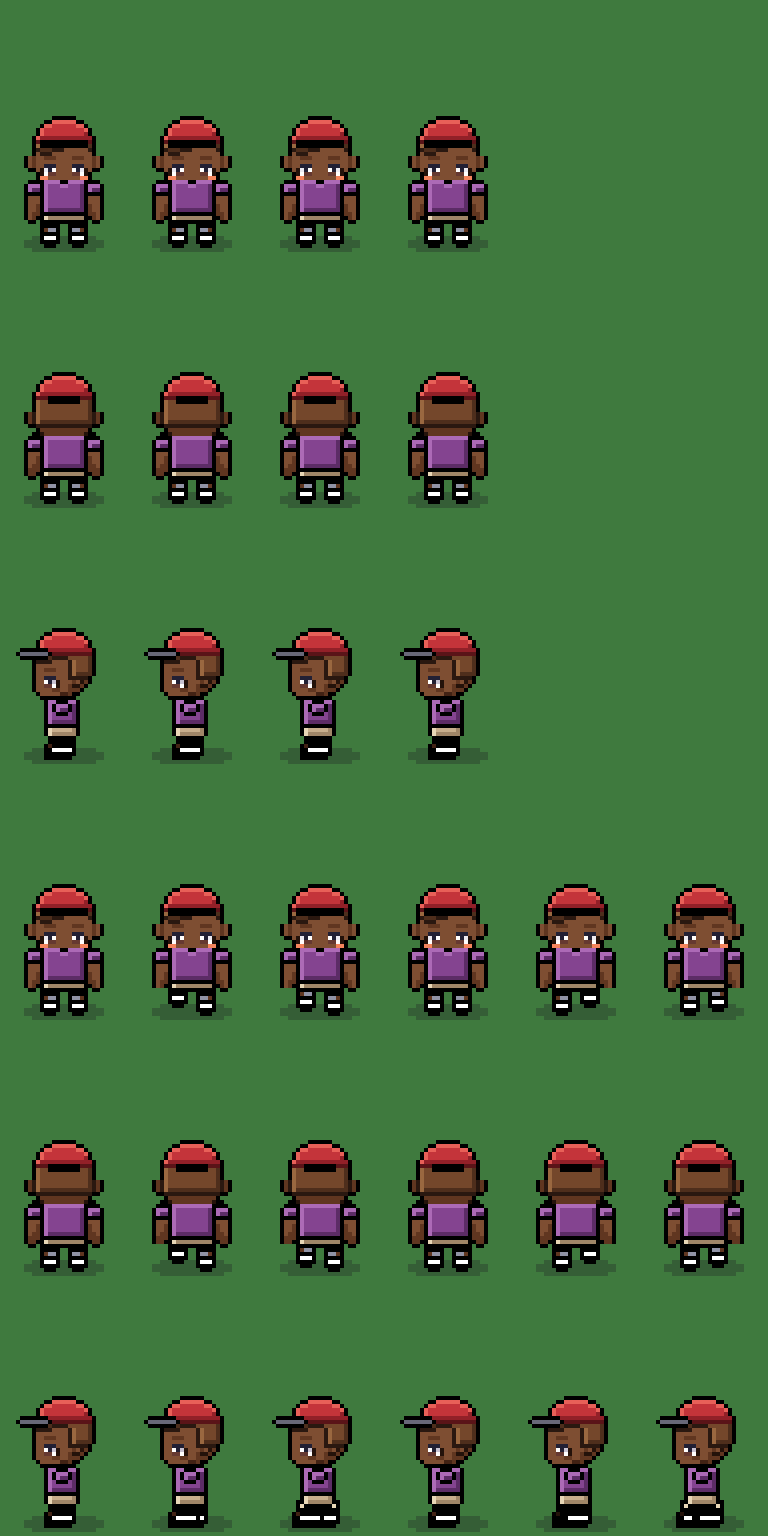
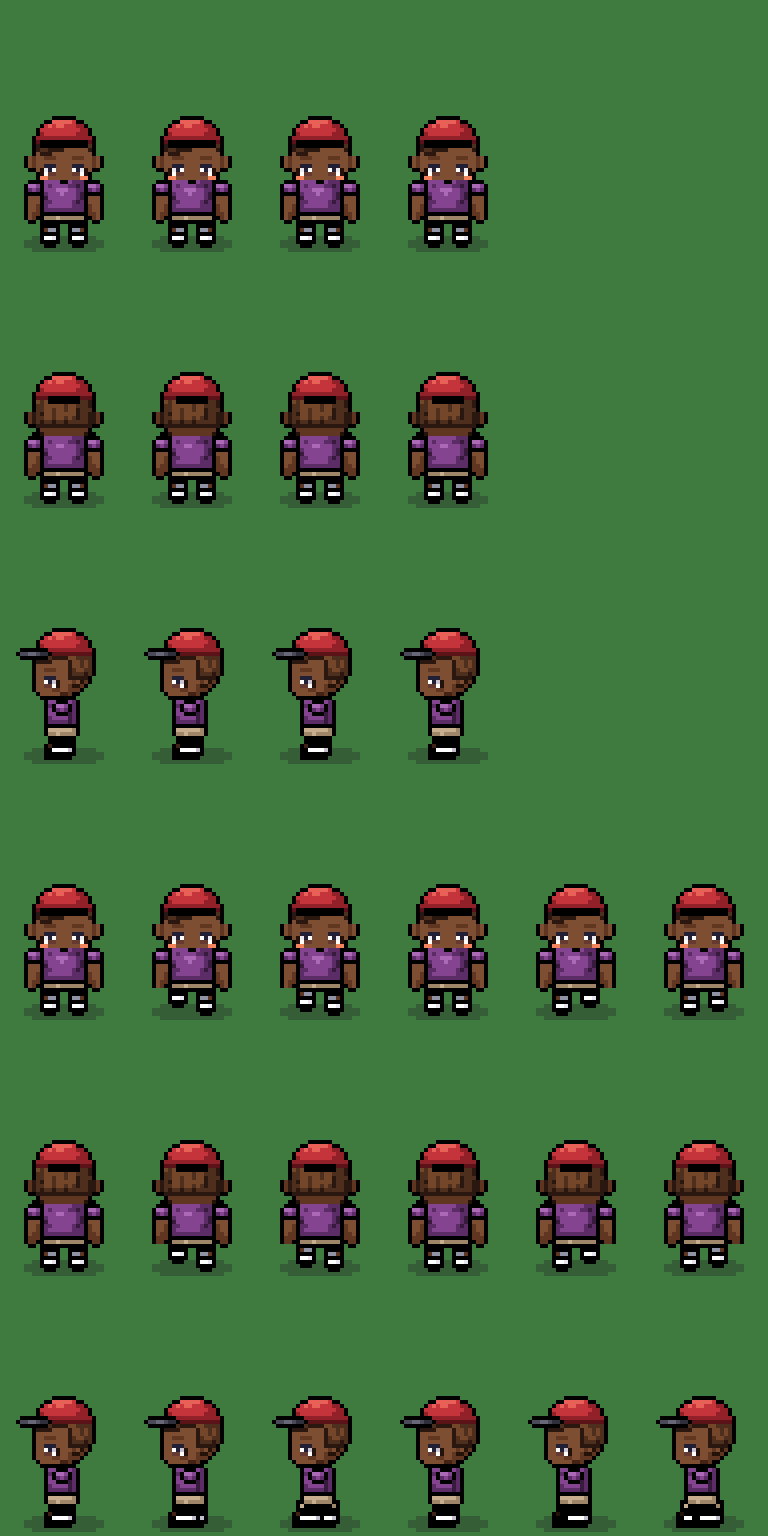
Characters: volumetric shading and detail pass
- round-volume shading for all character regions (light top/center, darker
  sides/bottom) instead of flat fill + 1px highlight
- hair: strand lines (sweeping front, vertical back) and a sheen highlight
- clothing: head cast shadow on chest/back, armpit and elbow creases,
  knee folds, crotch seam, waistband
- Frame.shift/detail helpers for per-pixel shade passes

Claude-Session: https://claude.ai/code/session_01AuTfW4RY5hqwpF1mFtvoZZ

diff --git a/scripts/gen-placeholders.ts b/scripts/gen-placeholders.ts
@@ -48,13 +48,32 @@ class Frame {
   /** A shaded region with the black outline used by all character art. */
   reg(ch: Ch | Ramp4, inside?: (x: number, y: number) => boolean): Region {
     const r = new Region(FRAME_W, FRAME_H, typeof ch === "string" ? KEY_RAMPS[ch] : ch);
-    this.ops.push(() => r.paint(this.c, 0, 0, { outlineColor: BLACK, inside }));
+    this.ops.push(() => r.paint(this.c, 0, 0, { outlineColor: BLACK, inside, volume: true }));
     return r;
   }
   /** Region for hair/headwear: black outline only on the head silhouette, soft edge where it meets skin. */
   headReg(ch: Ch): Region {
     const m = headMask(this.p);
     return this.reg(ch, (x, y) => x >= 0 && y >= 0 && x < FRAME_W && y < FRAME_H && m[y * FRAME_W + x] === 1);
+  }
+  /** Shift a painted key-ramp pixel one shade darker (d=-1) or lighter (d=+1). Outline/fixed colors untouched. */
+  shift(x: number, y: number, d: -1 | 1) {
+    this.ops.push(() => {
+      const h = hexAt(this.c, x, y);
+      if (!h) return;
+      for (const ramp of Object.values(KEY_RAMPS) as readonly string[][]) {
+        const i = ramp.indexOf(h);
+        if (i >= 0) {
+          const j = Math.max(0, Math.min(3, i + d));
+          if (j !== i) this.c.set(x, y, ramp[j]!);
+          return;
+        }
+      }
+    });
+  }
+  /** Apply `shift` to every pixel of a region matching a predicate (call AFTER the region's shapes are set). */
+  detail(r: Region, d: -1 | 1, when: (x: number, y: number) => boolean) {
+    for (let y = 0; y < FRAME_H; y++) for (let x = 0; x < FRAME_W; x++) if (r.has(x, y) && when(x, y)) this.shift(x, y, d);
   }
   dot(x: number, y: number, hex: string, alpha = 255) {
     this.ops.push(() => this.c.set(x, y, hex, alpha));
@@ -186,6 +205,7 @@ const drawers: Record<string, Drawer> = {
     if (f.dir === "down") r.round(h.x, h.y + 8, h.w, 16, 2);
     else if (f.dir === "up") r.round(h.x, h.y + 6, h.w, 18, 3);
     else r.round(h.x + 8, h.y + 6, 9, 17, 2);
+    f.detail(r, -1, (x, y) => r.has(x - 1, y) && r.has(x + 1, y) && (x - h.x) % 3 === 1 && y % 4 !== 0);
   },
   "hair/hair_bun_01.png": (f) => {
     const h = f.p.head;
@@ -297,6 +317,24 @@ const drawers: Record<string, Drawer> = {
   },
 };
 
+/** Hair strands + highlight sheen, so hair reads as hair and not a flat cap. */
+function hairDetail(f: Frame, r: Region) {
+  const h = f.p.head;
+  const inner = (x: number, y: number) => r.has(x - 1, y) && r.has(x + 1, y) && r.has(x, y - 1) && r.has(x, y + 1);
+  if (f.dir === "up") {
+    // vertical strands falling down the back of the head
+    f.detail(r, -1, (x, y) => inner(x, y) && y >= h.y + 4 && (x - h.x) % 3 === 1 && (y + x) % 5 !== 0);
+    f.detail(r, 1, (x, y) => inner(x, y) && y >= h.y + 2 && y <= h.y + 3 && x >= h.x + 6 && x <= h.x + 11);
+  } else if (f.dir === "down") {
+    // strands sweeping from the crown toward the fringe
+    f.detail(r, -1, (x, y) => inner(x, y) && y >= h.y + 3 && (x + Math.floor((y - h.y) / 2)) % 4 === 0);
+    f.detail(r, 1, (x, y) => inner(x, y) && y === h.y + 2 && x >= h.x + 5 && x <= h.x + 10);
+  } else {
+    f.detail(r, -1, (x, y) => inner(x, y) && y >= h.y + 3 && (x - Math.floor((y - h.y) / 2)) % 4 === 0);
+    f.detail(r, 1, (x, y) => inner(x, y) && y === h.y + 2 && x >= h.x + 3 && x <= h.x + 8);
+  }
+}
+
 function hairCap(f: Frame, sideLen: number) {
   const { p } = f;
   const h = p.head;
@@ -312,22 +350,46 @@ function hairCap(f: Frame, sideLen: number) {
     fromHead(r, p, (x, y) => y <= h.y + 7 || (x >= h.x + 9 && y <= h.y + 6 + Math.max(6, sideLen)));
     r.rect(h.x + 1, h.y + 8, 4, 1); // fringe tip
   }
+  hairDetail(f, r);
 }
 
 function sleeve(f: Frame, arm: R, len: number) {
-  rr(f.reg("primary"), { x: arm.x, y: arm.y, w: arm.w, h: Math.min(len, arm.h - 2) }, 1);
+  const h = Math.min(len, arm.h - 2);
+  const r = f.reg("primary");
+  rr(r, { x: arm.x, y: arm.y, w: arm.w, h }, 1);
+  if (h >= 6) f.detail(r, -1, (x, y) => y === arm.y + 4 && r.has(x - 1, y) && r.has(x + 1, y)); // elbow crease
+}
+
+/** Folds on a torso region: shadow under the head, armpit creases, hem. */
+function torsoDetail(f: Frame, body: Region) {
+  const t = f.p.torso;
+  const inner = (x: number, y: number) => body.has(x - 1, y) && body.has(x + 1, y) && body.has(x, y - 1);
+  if (f.dir === "left") {
+    f.detail(body, -1, (x, y) => inner(x, y) && y <= t.y + 2 && x <= t.x + 5); // under the chin
+    f.detail(body, -1, (x, y) => inner(x, y) && y >= t.y + 4 && y <= t.y + 6 && x === t.x + 6);
+    return;
+  }
+  const cx = t.x + t.w / 2;
+  // cast shadow of the head on the chest/back
+  f.detail(body, -1, (x, y) => inner(x, y) && y <= t.y + 2 && Math.abs(x + 0.5 - cx) <= 4);
+  // armpit creases
+  f.detail(body, -1, (x, y) => inner(x, y) && (y === t.y + 4 || y === t.y + 5) && (x === t.x + 2 || x === t.x + t.w - 3));
+  f.detail(body, -1, (x, y) => inner(x, y) && y === t.y + 6 && (x === t.x + 3 || x === t.x + t.w - 4));
 }
 
 function shirt(f: Frame, sleeveLen: number, collar: boolean) {
   const { p } = f;
   if (f.dir === "left") {
-    rr(f.reg("primary"), { ...p.torso, h: p.torso.h - 1 }, 1);
+    const body = f.reg("primary");
+    rr(body, { ...p.torso, h: p.torso.h - 1 }, 1);
+    torsoDetail(f, body);
     sleeve(f, p.arms[1], sleeveLen);
   } else {
     p.arms.forEach((a) => sleeve(f, a, sleeveLen));
     const body = f.reg("primary");
     rr(body, { ...p.torso, x: p.torso.x + 1, w: p.torso.w - 2, h: p.torso.h - 1 }, 1);
     if (f.dir === "down") body.rect(p.torso.x + 6, p.torso.y, 2, 1, false); // neckline
+    torsoDetail(f, body);
   }
   if (collar && f.dir === "down") f.reg("secondary").rect(p.torso.x + 4, p.torso.y, 6, 2);
 }
@@ -336,18 +398,29 @@ function jacket(f: Frame, widen: number) {
   const { p } = f;
   const t = p.torso;
   if (f.dir === "left") {
-    rr(f.reg("primary"), { x: t.x - widen, y: t.y, w: t.w + widen * 2, h: t.h }, 1);
+    const body = f.reg("primary");
+    rr(body, { x: t.x - widen, y: t.y, w: t.w + widen * 2, h: t.h }, 1);
+    torsoDetail(f, body);
     sleeve(f, p.arms[1], 99);
   } else {
     p.arms.forEach((a) => sleeve(f, a, 99));
-    rr(f.reg("primary"), { x: t.x + 1 - widen, y: t.y, w: t.w - 2 + widen * 2, h: t.h + widen }, 1);
+    const body = f.reg("primary");
+    rr(body, { x: t.x + 1 - widen, y: t.y, w: t.w - 2 + widen * 2, h: t.h + widen }, 1);
+    torsoDetail(f, body);
   }
 }
 
 function legsWear(f: Frame, len: number) {
   const { p } = f;
-  for (const leg of p.legs) rr(f.reg("primary"), { x: leg.x, y: leg.y - 1, w: leg.w, h: Math.min(len, leg.h - 1) });
-  rr(f.reg("primary"), p.hip, 1);
+  for (const leg of p.legs) {
+    const r = f.reg("primary");
+    rr(r, { x: leg.x, y: leg.y - 1, w: leg.w, h: Math.min(len, leg.h - 1) });
+    if (len > 4) f.detail(r, -1, (x, y) => y === leg.y + 2 && r.has(x - 1, y) && r.has(x + 1, y) && x % 2 === 0); // knee fold
+  }
+  const hip = f.reg("primary");
+  rr(hip, p.hip, 1);
+  if (f.dir !== "left") f.detail(hip, -1, (x, y) => (x === 15 || x === 16) && y >= p.hip.y + 2); // crotch seam
+  f.detail(hip, -1, (x, y) => y === p.hip.y + 1 && hip.has(x - 1, y) && hip.has(x + 1, y) && x % 3 === 0); // waistband
 }
 
 function footwear(f: Frame, shaft: number) {

diff --git a/scripts/lib/pixel.ts b/scripts/lib/pixel.ts
@@ -112,8 +112,20 @@ export class Region {
     c: Canvas,
     ox = 0,
     oy = 0,
-    opts: { outline?: boolean; flat?: boolean; outlineColor?: string; inside?: (x: number, y: number) => boolean } = {},
+    opts: {
+      outline?: boolean;
+      flat?: boolean;
+      outlineColor?: string;
+      inside?: (x: number, y: number) => boolean;
+      /** Round-volume shading: light from top-front, darker toward the sides and bottom. */
+      volume?: boolean;
+    } = {},
   ): void {
+    const run = (x: number, y: number, dx: number, dy: number) => {
+      let n = 0;
+      while (this.has(x + dx * (n + 1), y + dy * (n + 1))) n++;
+      return n;
+    };
     const outline = opts.outline ?? true;
     for (let y = 0; y < this.h; y++)
       for (let x = 0; x < this.w; x++) {
@@ -122,7 +134,18 @@ export class Region {
         let shade = 2;
         if (opts.flat) shade = 2;
         else if (edge && outline) shade = 0;
-        else if (!this.has(x - 2, y) || !this.has(x, y - 2)) shade = 3;
+        else if (opts.volume) {
+          // position inside the shape's row/column span → 0..1
+          const l = run(x, y, -1, 0), r = run(x, y, 1, 0), t = run(x, y, 0, -1), b = run(x, y, 0, 1);
+          const u = l / Math.max(1, l + r); // 0 = left edge, 1 = right edge
+          const v = t / Math.max(1, t + b); // 0 = top, 1 = bottom
+          const side = Math.abs(u - 0.42) * 2; // light slightly from the left
+          let light = 1 - side * side * 0.9 - v * 0.55;
+          if (t <= 1 && side < 0.6) light += 0.35; // top highlight band
+          if (b === 1) light -= 0.25; // contact shadow on the bottom row
+          shade = light > 0.78 ? 3 : light > 0.32 ? 2 : light > -0.1 ? 1 : 0;
+          if (shade === 0 && l > 0 && r > 0 && b > 0) shade = 1; // keep darkest shade for edges
+        } else if (!this.has(x - 2, y) || !this.has(x, y - 2)) shade = 3;
         else if (!this.has(x + 2, y) || !this.has(x, y + 2)) shade = 1;
         // Edges that only touch the silhouette's interior (e.g. hair meeting skin) get the ramp's dark shade,
         // not the black outline — black is reserved for the outer silhouette.

diff --git a/CLAUDE.md b/CLAUDE.md
@@ -39,6 +39,7 @@ Full spec: `docs/spec.md`. Read it before changing anything in `shared/src/spec.
 - Layer draw order per direction: `LAYER_ORDER` in `shared/src/avatar.ts` (facing up, back layers move in front).
 - The base body is split into `body` (torso/limbs) and `head` layers; `head` is drawn above top/outerwear so clothing never covers the chin.
 - The head is an oval (reference silhouette). Hair and headwear are cut from that silhouette (`fromHead`) and must not grow outside it — otherwise the head reads as round. Use `f.headReg()` for them: black outline only on the outer silhouette, the ramp's dark shade where hair meets skin (no black line across the forehead).
+- Shading: character regions use round-volume shading (`volume: true` — lighter center/top, darker sides/bottom) plus detail passes via `f.detail()`: hair strands + sheen, head cast shadow on the torso, armpit/elbow creases, knee folds, seams. Keep new items consistent with this.
 - Compositor bakes each avatar once into a single texture (`client/src/game/avatar/compositor.ts`), cached by appearance.
 
 ## Workflow
